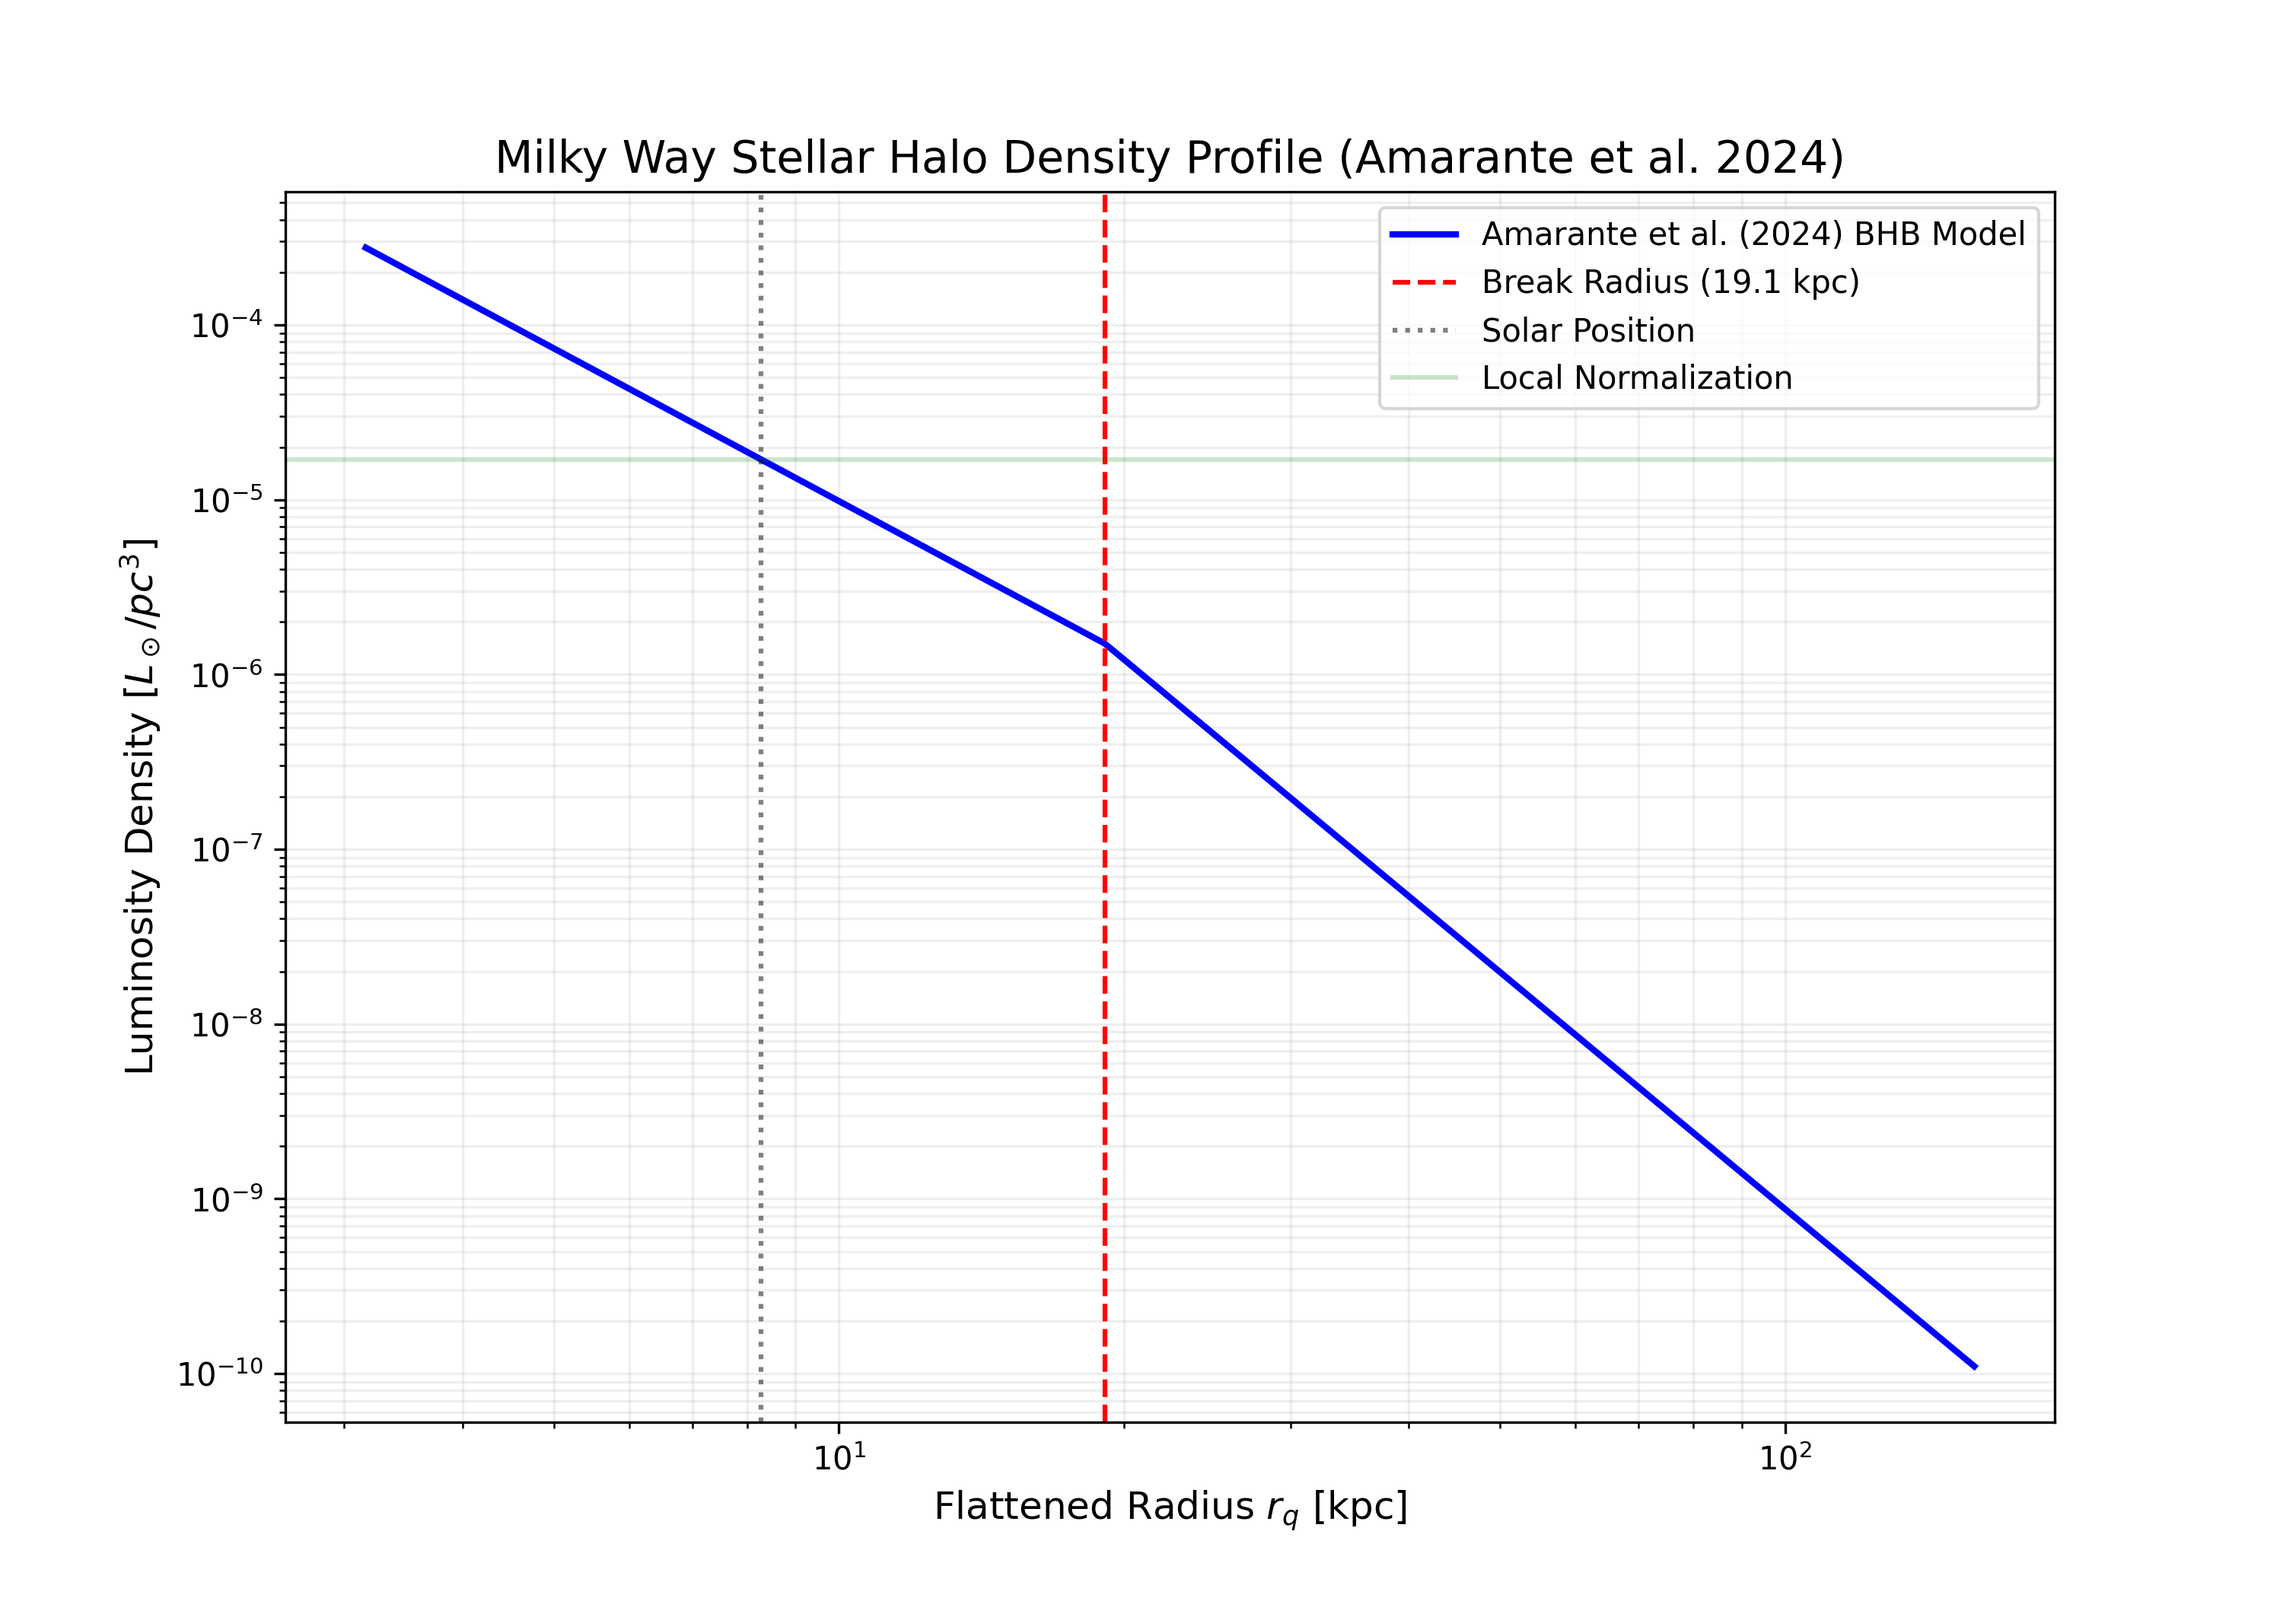
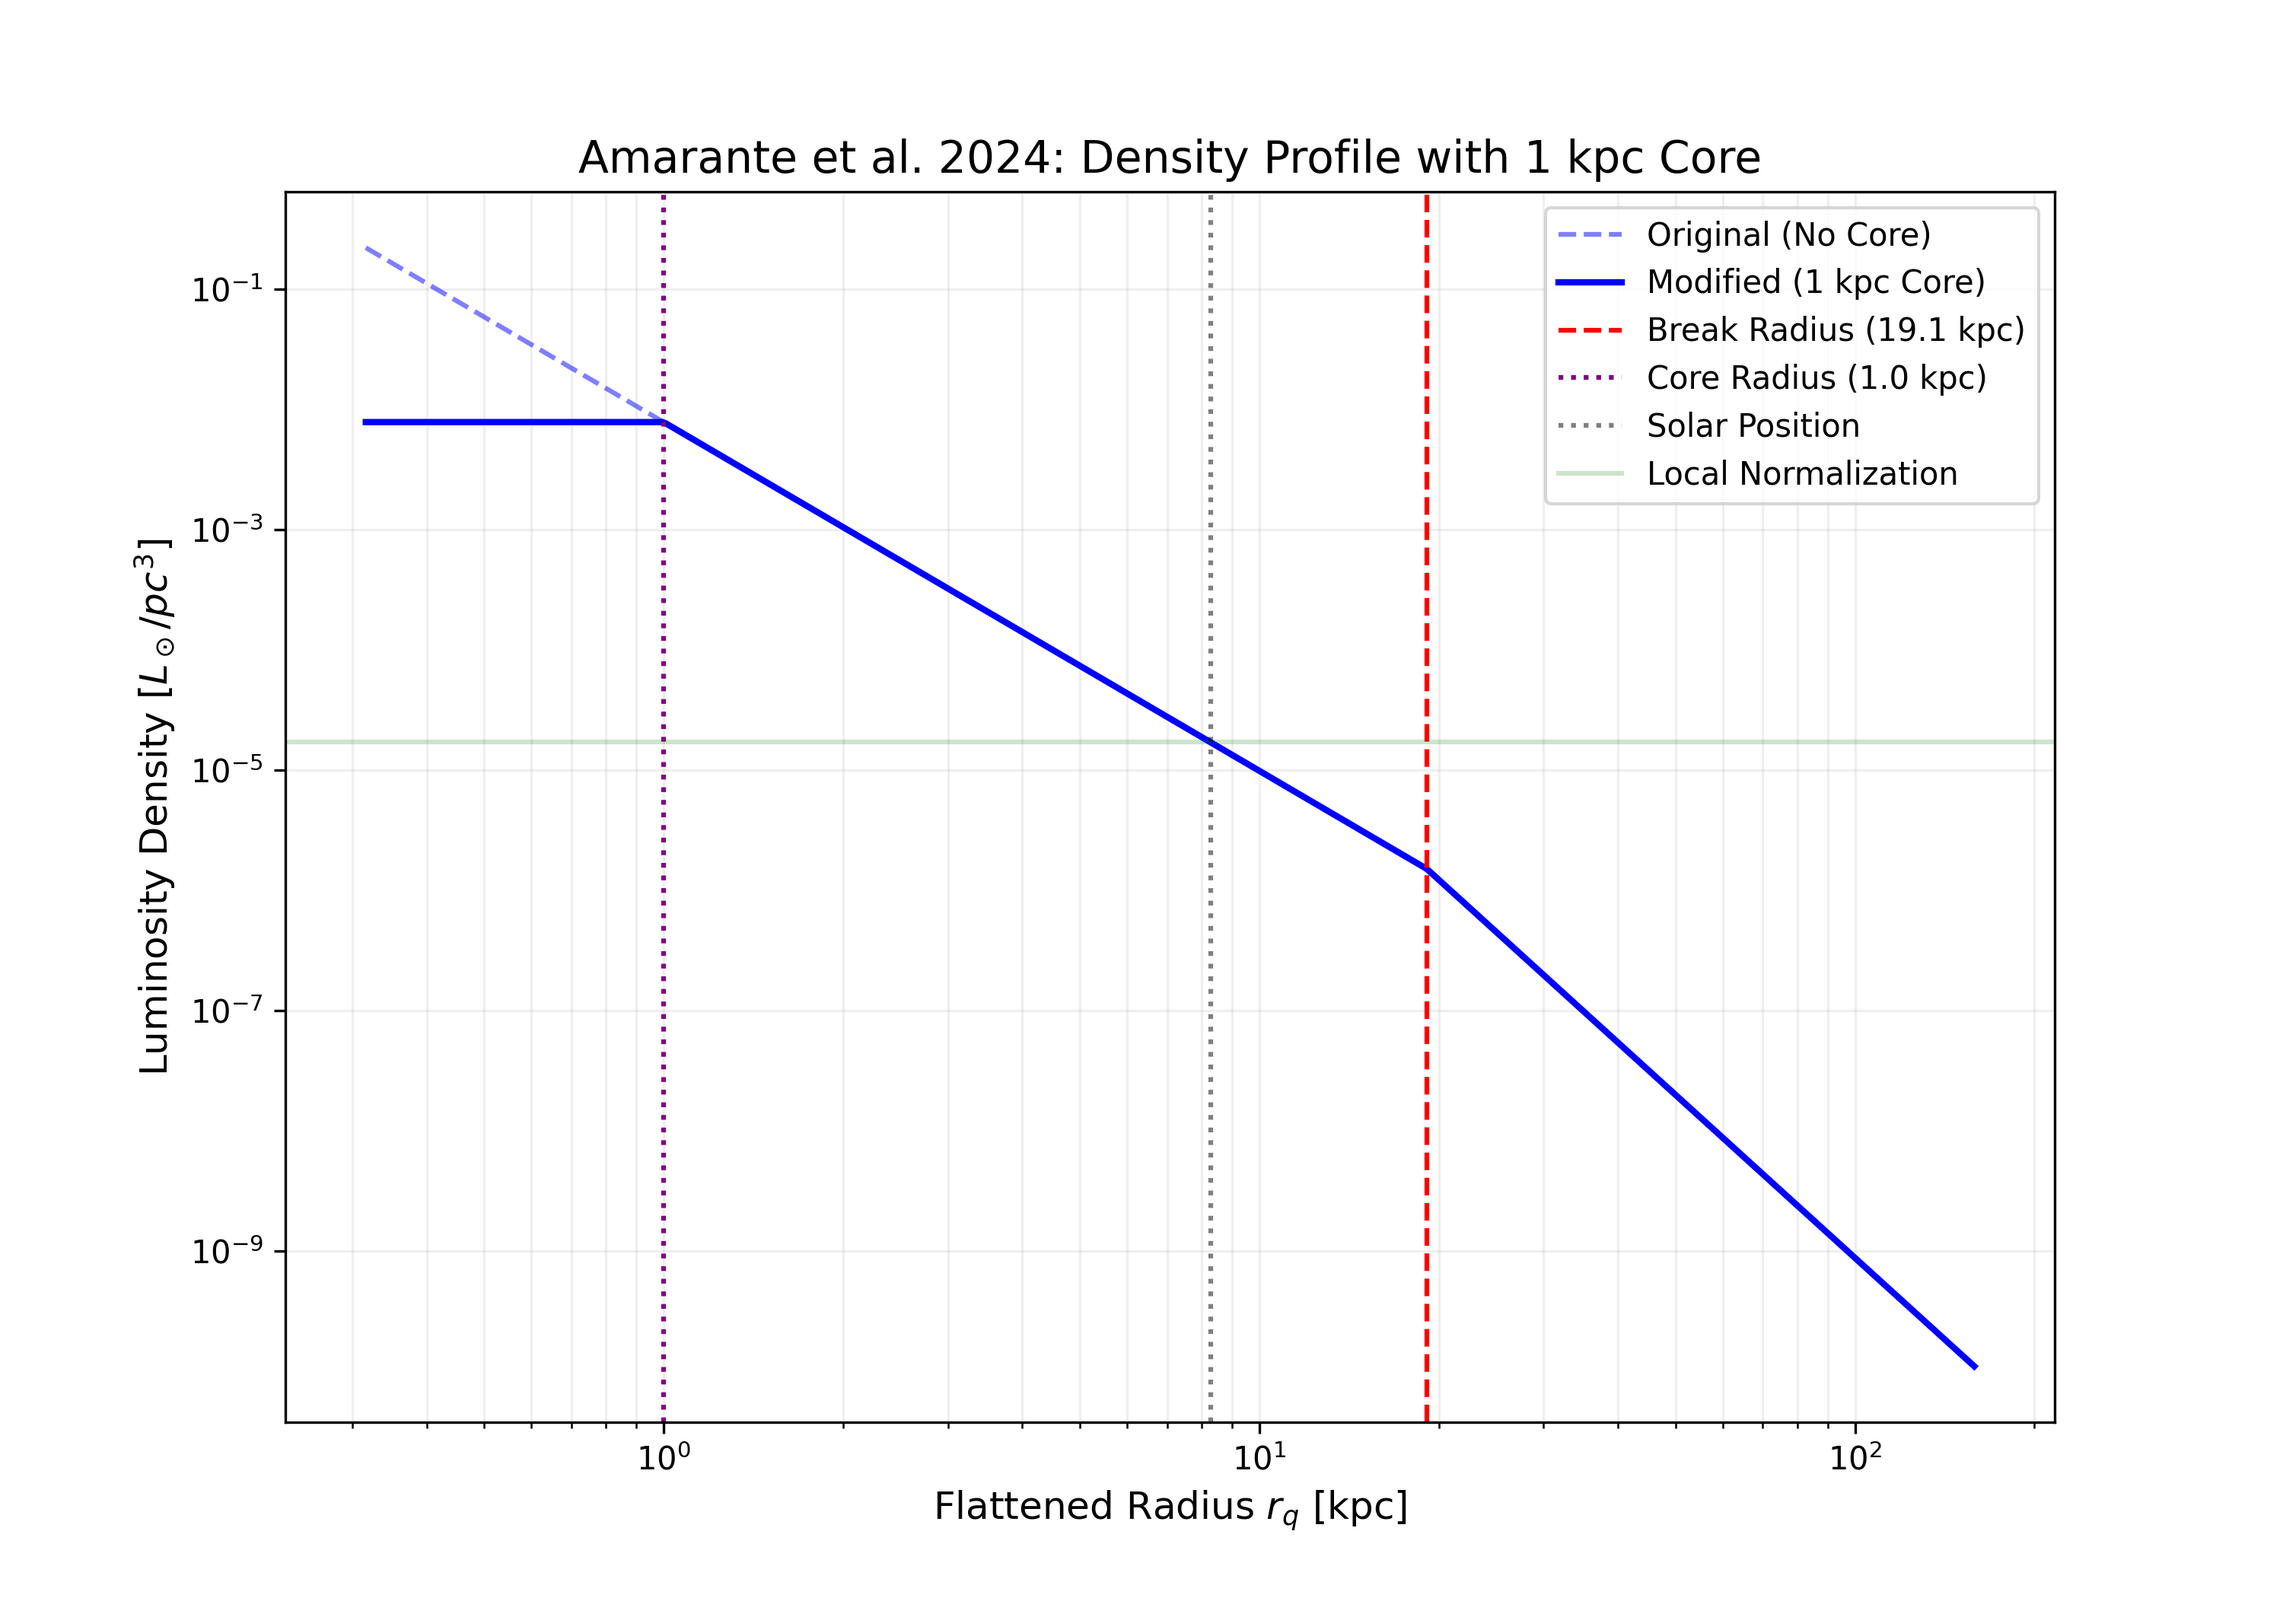
Add files via upload
Added 1kpc core to the Amarante et al 2024 model

diff --git a/assets/amarante2024_density_model.py b/assets/amarante2024_density_model.py
@@ -3,78 +3,86 @@ import matplotlib.pyplot as plt
 
 def calculate_amarante2024_halo():
     # Parameters from Amarante et al. (2024) - A&A 690, A166
-    # Broken Power Law Profile
     alpha_in = 2.9
     alpha_out = 4.5
     r_br = 19.1
-    # Flattening: they assume q=0.77 for r < 30 kpc and q=0.99 otherwise.
-    # We'll use an average or the inner value for the luminosity calculation if needed,
-    # but for the profile plot we use the flattened radius rq.
+    r_core = 1.0  # 1 kpc constant density core
+    
     q_inner = 0.77
     q_outer = 0.99
     
-    # Solar position (standard value often used if not specified, 8.122 or 8.275)
-    # Staf256 uses 8.275, Han uses 8.122. Let's use 8.275.
     R_sun = 8.275 
 
     # User local norm
     rho_local_Lsun_pc3 = 1.7e-5
     rho_local_Lsun_kpc3 = rho_local_Lsun_pc3 * (1000**3)
 
-    # Broken Power Law Profile Function (rq = sqrt(x^2 + y^2 + (z/q)^2))
-    def profile(r):
+    # 1. Profile without core
+    def profile_no_core(r):
         if r < r_br:
             return r**-alpha_in
         else:
             return (r_br**(alpha_out - alpha_in)) * (r**-alpha_out)
 
-    # Normalization at the Sun
-    # Note: Amarante uses rq. At the Sun, z=0 so rq = R_sun regardless of q.
-    norm_at_sun = profile(R_sun)
+    # 2. Profile with core
+    def profile_with_core(r):
+        if r < r_core:
+            return r_core**-alpha_in
+        elif r < r_br:
+            return r**-alpha_in
+        else:
+            return (r_br**(alpha_out - alpha_in)) * (r**-alpha_out)
+
+    # Normalization at the Sun (Sun is at 8.275 kpc, which is > r_core)
+    norm_at_sun = profile_no_core(R_sun)
     rho_0 = rho_local_Lsun_kpc3 / norm_at_sun
 
-    # Analytical Integration for Luminosity
-    # L = 4 * pi * q * Integral[ rho(r) * r^2 dr ]
-    # Since q changes, we split the integral at 30 kpc or r_br?
-    # Actually, the profile is defined in terms of rq.
-    # L = 4 * pi * q * Integral[ rho(rq) * rq^2 drq ]
-    
-    # Part 1: 0 to r_br (using q_inner)
-    int1 = (r_br**(3 - alpha_in)) / (3 - alpha_in)
-    L1 = 4 * np.pi * q_inner * rho_0 * int1
-    
-    # Part 2: r_br to 30 kpc (using q_inner)
+    # --- Luminosity WITHOUT core ---
+    # 0 to r_br
+    int1_nc = (r_br**(3 - alpha_in)) / (3 - alpha_in)
+    # r_br to 30 kpc
     C = r_br**(alpha_out - alpha_in)
-    int2 = C * (30**(3 - alpha_out) - r_br**(3 - alpha_out)) / (3 - alpha_out)
-    L2 = 4 * np.pi * q_inner * rho_0 * int2
+    int2_nc = C * (30**(3 - alpha_out) - r_br**(3 - alpha_out)) / (3 - alpha_out)
+    # 30 kpc to infinity
+    int3_nc = C * (0 - 30**(3 - alpha_out)) / (3 - alpha_out)
     
-    # Part 3: 30 kpc to infinity (using q_outer)
-    int3 = C * (0 - 30**(3 - alpha_out)) / (3 - alpha_out)
-    L3 = 4 * np.pi * q_outer * rho_0 * int3
+    L_no_core = 4 * np.pi * rho_0 * (q_inner * (int1_nc + int2_nc) + q_outer * int3_nc)
+
+    # --- Luminosity WITH core ---
+    # 0 to r_core (constant density: rho = rho_0 * r_core^-alpha_in)
+    int_core = (r_core**-alpha_in) * (r_core**3 / 3.0)
+    # r_core to r_br
+    int1_c = (r_br**(3 - alpha_in) - r_core**(3 - alpha_in)) / (3 - alpha_in)
+    # rest are same as int2_nc, int3_nc
     
-    L_total = L1 + L2 + L3
+    L_with_core = 4 * np.pi * rho_0 * (q_inner * (int_core + int1_c + int2_nc) + q_outer * int3_nc)
 
     print(f"--- Amarante et al. (2024) BHB Halo Properties ---")
-    print(f"Central Norm (at 1kpc): {rho_0:.2e} Lsun/kpc^3")
-    print(f"Total Halo Luminosity:  {L_total:.2e} Lsun")
     print(f"Break Radius:           {r_br} kpc")
+    print(f"Core Radius:            {r_core} kpc")
     print(f"Inner Slope (alpha):    {alpha_in}")
     print(f"Outer Slope (alpha):    {alpha_out}")
+    print(f"Luminosity (No Core):   {L_no_core:.2e} Lsun")
+    print(f"Luminosity (With Core): {L_with_core:.2e} Lsun")
+    print(f"Difference:             {((L_no_core - L_with_core)/L_no_core)*100:.2f}%")
     print(f"---------------------------------------------------")
 
     # Plotting
-    r_vals = np.logspace(0.5, 2.2, 500)
-    rho_vals = np.array([rho_0 * profile(r) for r in r_vals])
+    r_vals = np.logspace(-0.5, 2.2, 500)
+    rho_nc = np.array([rho_0 * profile_no_core(r) for r in r_vals])
+    rho_c = np.array([rho_0 * profile_with_core(r) for r in r_vals])
 
     plt.figure(figsize=(10, 7))
-    plt.loglog(r_vals, rho_vals / (1000**3), color='blue', linewidth=2, label='Amarante et al. (2024) BHB Model')
+    plt.loglog(r_vals, rho_nc / (1000**3), color='blue', linestyle='--', alpha=0.5, label='Original (No Core)')
+    plt.loglog(r_vals, rho_c / (1000**3), color='blue', linewidth=2, label='Modified (1 kpc Core)')
     
     # Markers
     plt.axvline(r_br, color='red', linestyle='--', label=f'Break Radius ({r_br} kpc)')
+    plt.axvline(r_core, color='purple', linestyle=':', label=f'Core Radius ({r_core} kpc)')
     plt.axvline(R_sun, color='black', linestyle=':', alpha=0.5, label='Solar Position')
     plt.axhline(rho_local_Lsun_pc3, color='green', linestyle='-', alpha=0.2, label='Local Normalization')
 
-    plt.title('Milky Way Stellar Halo Density Profile (Amarante et al. 2024)', fontsize=14)
+    plt.title('Amarante et al. 2024: Density Profile with 1 kpc Core', fontsize=14)
     plt.xlabel('Flattened Radius $r_q$ [kpc]', fontsize=12)
     plt.ylabel('Luminosity Density [$L_\\odot/pc^3$]', fontsize=12)
     plt.legend(frameon=True)
